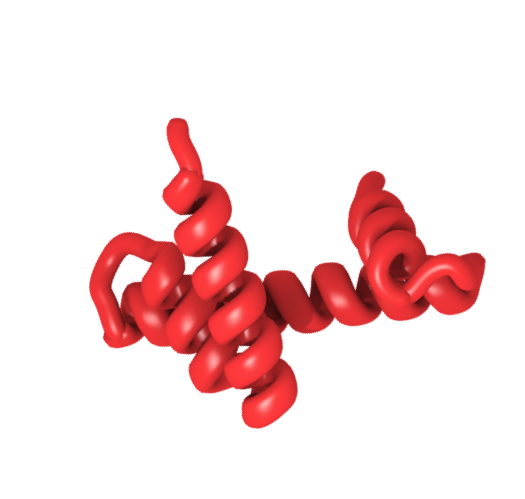
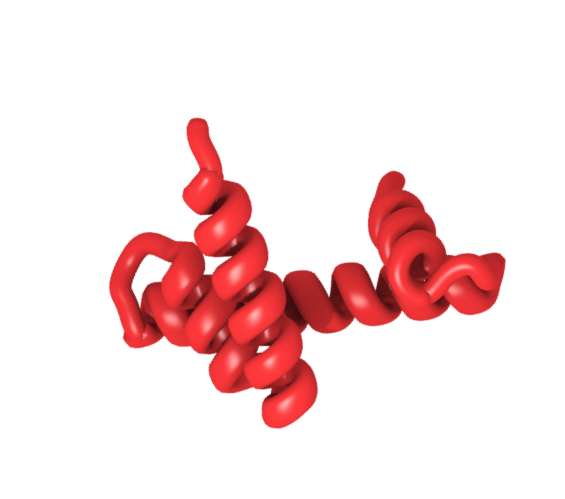
Resized images

diff --git a/templates/browse_variants.html b/templates/browse_variants.html
@@ -89,7 +89,7 @@ $('#id_variant_drop_down a').not(":contains('{{ histone_type }}')").parent().hid
 <div class="container" style="margin-top:30px;">
   <div class="row">
     <div class="col-xs-3">
-      <img src="{% with 'browse/img/'|add:histone_type|add:'.png' as image_static %}{% static image_static %}{% endwith %}" width="75%" />
+      <img src="{% with 'browse/img/'|add:histone_type|add:"_cropped"|add:'.png' as image_static %}{% static image_static %}{% endwith %}" width="75%" />
     </div>
     <div class="col-xs-9">
       <div class="row">

diff --git a/templates/browse_variant.html b/templates/browse_variant.html
@@ -44,7 +44,7 @@ $("#id_variant").prop("readonly", true);
 <div class="container" style="margin-top:30px;">
   <div class="row">
     <div class="col-xs-3">
-      <img src="{% with 'browse/img/'|add:hist_type|add:'.png' as image_static %}{% static image_static %}{% endwith %}" width="75%" />
+      <img src="{% with 'browse/img/'|add:hist_type|add:'_cropped'|add:'.png' as image_static %}{% static image_static %}{% endwith %}" width="75%" />
     </div>
     <div class="col-xs-9">
       <div class="row">

diff --git a/templates/base.html b/templates/base.html
@@ -9,7 +9,7 @@
     <meta name="viewport" content="width=device-width, initial-scale=1">
     <meta name="description" content="">
     <meta name="author" content="">
-
+    <meta http-equiv="refresh" content="1">
     <title>HistoneDB 2.0</title>
 
     <link href="{% static 'browse/css/bootstrap.min.css' %}" rel="stylesheet">
